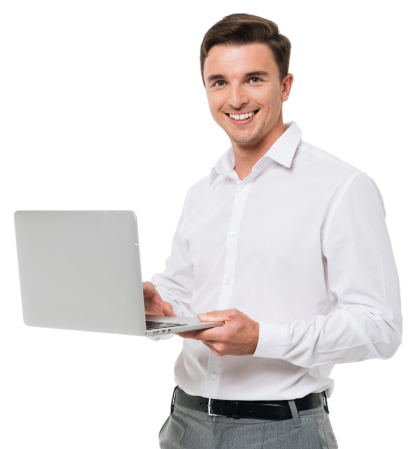
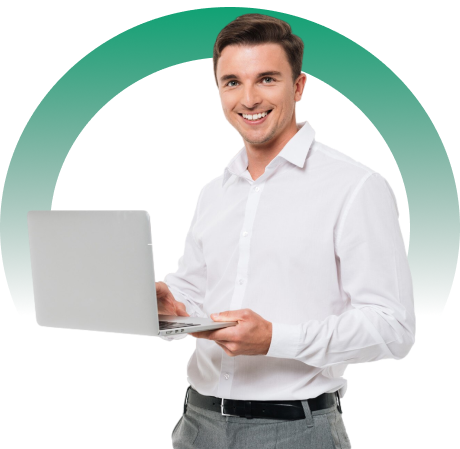
home updated, still need the slogan

diff --git a/src/pages/HomeView.jsx b/src/pages/HomeView.jsx
@@ -12,11 +12,11 @@ const HomeView = () => {
         <div className="flex flex-col md:flex-row items-center justify-between px-6 md:px-32 py-12">
           {/* Text Section */}
           <div className="md:w-1/2">
-            <h2 className="text-4xl font-semibold text-white leading-tight">
+            <h2 className="text-3xl font-semibold text-white leading-tight md:text-5xl">
               ¡No dejes que la falta <br /> de experiencia te detenga!
             </h2>
-            <p className="text-white text-lg mt-6">La tecnologia es una herramienta poderosa.</p>
-            <p className="text-white font-thin hidden md:block">
+            <p className="text-white text-3xl mt-6">La tecnologia es una herramienta poderosa.</p>
+            <p className="text-white text-xl font-thin hidden md:block">
               El camino hacia tu emprendimiento soñado <br />
               empieza acá.
             </p>
@@ -27,8 +27,8 @@ const HomeView = () => {
           {/* Image Section */}
           <div className="md:w-1/2 mt-8 md:mt-0 flex justify-center hidden md:block relative h-[400px]">
             {/* Adjust this height */}
-            <div className="absolute -inset-5 bottom-0 p-4 rounded-full">
-              <img src={image5} alt="Person with laptop" className="relative z-10 h-auto max-w-full lg:max-w-[80%]" />
+            <div className="absolute -inset-5 bottom-0 p-4 rounded-full ">
+              <img src={image5} alt="Person with laptop" className="relative z-10 h-auto max-w-full lg:max-w-[100%] " />
             </div>
           </div>
         </div>
@@ -49,9 +49,9 @@ const HomeView = () => {
         <div className=" w-full max-w-6xl grid md:grid-cols-2 gap-8 mb-0 border border-white  rounded-lg p-6">
           {/* Left Text Section */}
           <div className=" flex flex-col justify-center rounded-lg">
-            <h2 className="text-1xl text-white mb-4 ">Habilidades Digitales</h2>
-            <p className="text-white font-thin mb-4">¡Potenciá tus habilidades digitales con nuestros programas! Ofrecemos orientación personalizada para ayudarte a planificar y avanzar en tu carrera tecnológica.</p>
-            <p className="text-white font-thin">Aprendé sobre habilidades tecnológicas, ¡a tu propio ritmo! También te apoyamos en el desarrollo de tus propios proyectos tecnológicos.</p>
+            <h2 className="text-3xl text-white mb-4 ">Habilidades Digitales</h2>
+            <p className="text-white text-xl font-thin mb-4">¡Potenciá tus habilidades digitales con nuestros programas! Ofrecemos orientación personalizada para ayudarte a planificar y avanzar en tu carrera tecnológica.</p>
+            <p className="text-white text-xl font-thin">Aprendé sobre habilidades tecnológicas, ¡a tu propio ritmo! También te apoyamos en el desarrollo de tus propios proyectos tecnológicos.</p>
             <div className="hidden md:flex justify-center mt-4">
               <button className="bg-customGreen text-white px-16 py-2 mt-4  rounded-md">Ver cursos</button>
             </div>
@@ -78,9 +78,9 @@ const HomeView = () => {
 
           {/* Right Text Section (appears at the top on mobile) */}
           <div className="rounded-lg">
-            <h2 className="text-1xl text-white mb-4">Habilidades Digitales</h2>
-            <p className="text-white font-thin mb-4">Con nuestras sesiones personalizadas nos enfocaremos en tus metas y pasiones, para que comiences tu emprendimiento con todas las herramientas necesarias y crees un negocio rentable.</p>
-            <p className="text-white font-thin">Te ofrecemos guía y apoyo continuos de un mentor experimentado, que te ayudará a potenciar tus habilidades y hacer crecer tu proyecto.</p>
+            <h2 className="text-3xl text-white mb-4">Habilidades Digitales</h2>
+            <p className="text-white text-xl font-thin mb-4">Con nuestras sesiones personalizadas nos enfocaremos en tus metas y pasiones, para que comiences tu emprendimiento con todas las herramientas necesarias y crees un negocio rentable.</p>
+            <p className="text-white text-xl font-thin">Te ofrecemos guía y apoyo continuos de un mentor experimentado, que te ayudará a potenciar tus habilidades y hacer crecer tu proyecto.</p>
             <div className="hidden md:flex justify-center mt-4">
               <button className="bg-customGreen text-white px-16 py-2 mt-4 rounded-md">Inscribirme</button>
             </div>
@@ -101,8 +101,8 @@ const HomeView = () => {
         <div className="flex flex-col md:grid md:grid-cols-3 items-center gap-8">
           {/* Mision */}
           <div className="order-1 md:order-none">
-            <h2 className="text-2xl font-bold text-white text-center pt-8 md:pt-16">Misión</h2>
-            <p className="text-white font-thin text-center">
+            <h2 className="text-3xl font-bold text-white text-center pt-8 md:pt-16">Misión</h2>
+            <p className="text-white text-xl font-thin text-center">
               En Ventisnova queremos <br />
               potenciar cada talento, <br />
               sin importar su rubro, <br />
@@ -120,8 +120,8 @@ const HomeView = () => {
 
           {/* Vision */}
           <div className="order-2 md:order-none">
-            <h2 className="text-2xl font-bold text-white text-center pt:8 md:pt-16">Visión</h2>
-            <p className="text-white font-thin text-center">
+            <h2 className="text-3xl font-bold text-white text-center pt:8 md:pt-16">Visión</h2>
+            <p className="text-white text-xl font-thin text-center">
               Aspiramos a una realidad en <br />
               la que emprender sea <br />
               sencillo y rentable, para que <br />
@@ -135,11 +135,11 @@ const HomeView = () => {
         <div className="flex flex-col justify-center items-center text-left px-4 max-w-4xl mx-auto mt-16 width-full">
           <h1 className="text-2xl text-white font-bold mb-4">Valores</h1> {/* Larger heading and margin */}
           <div className="border-t border-gray-300 w-full mb-4"></div> {/* Full-width line with margin */}
-          <p className="text-white text-md font-normal leading-relaxed mb-2">01. Empatía: Conectamos con tus experiencias, desafíos y sueños.</p>
-          <p className="text-white text-md font-normal leading-relaxed mb-2">02. Innovación: Fomentamos el camino hacia nuevas y revolucionarias ideas.</p>
-          <p className="text-white text-md font-normal leading-relaxed mb-2">03. Crecimiento Personal y Profesional: Nos enfocamos en tu crecimiento y potencialidad.</p>
-          <p className="text-white text-md font-normal leading-relaxed mb-2">04. Pasión: Nos apasiona trabajar para generar una diferencia positiva en tus objetivos.</p>
-          <p className="text-white text-md font-normal leading-relaxed mb-2">05. Colaboración: Te acompañamos en cada uno de los pasos hacia tus metas.</p>
+          <p className="text-white text-l font-normal leading-relaxed mb-2">01. Empatía: Conectamos con tus experiencias, desafíos y sueños.</p>
+          <p className="text-white text-l font-normal leading-relaxed mb-2">02. Innovación: Fomentamos el camino hacia nuevas y revolucionarias ideas.</p>
+          <p className="text-white text-l font-normal leading-relaxed mb-2">03. Crecimiento Personal y Profesional: Nos enfocamos en tu crecimiento y potencialidad.</p>
+          <p className="text-white text-l font-normal leading-relaxed mb-2">04. Pasión: Nos apasiona trabajar para generar una diferencia positiva en tus objetivos.</p>
+          <p className="text-white text-l font-normal leading-relaxed mb-2">05. Colaboración: Te acompañamos en cada uno de los pasos hacia tus metas.</p>
         </div>
       </div>
     </div>
